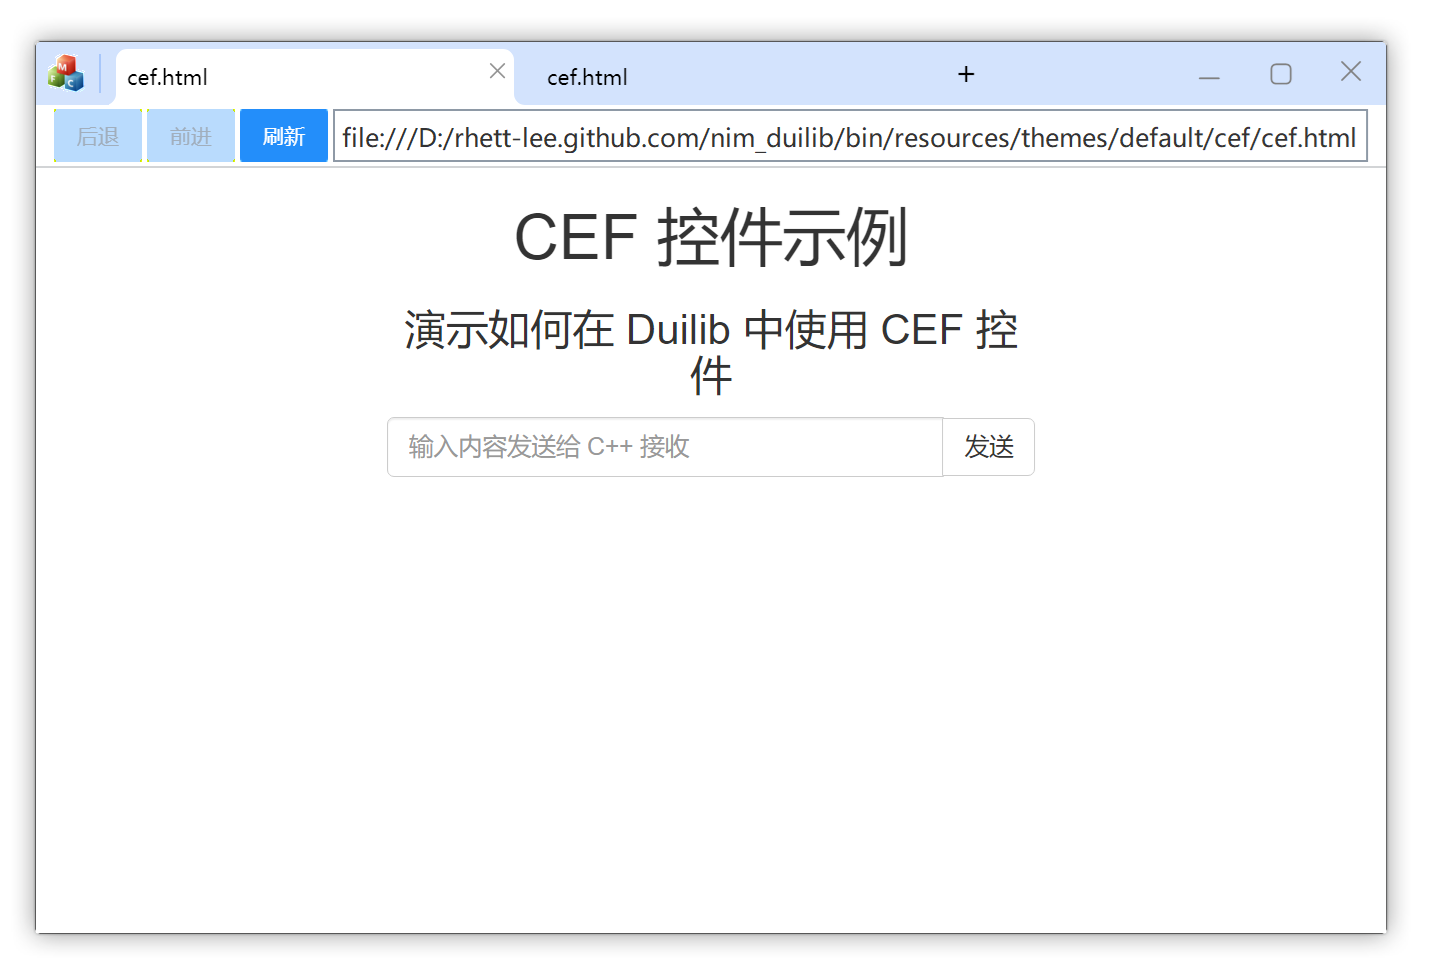
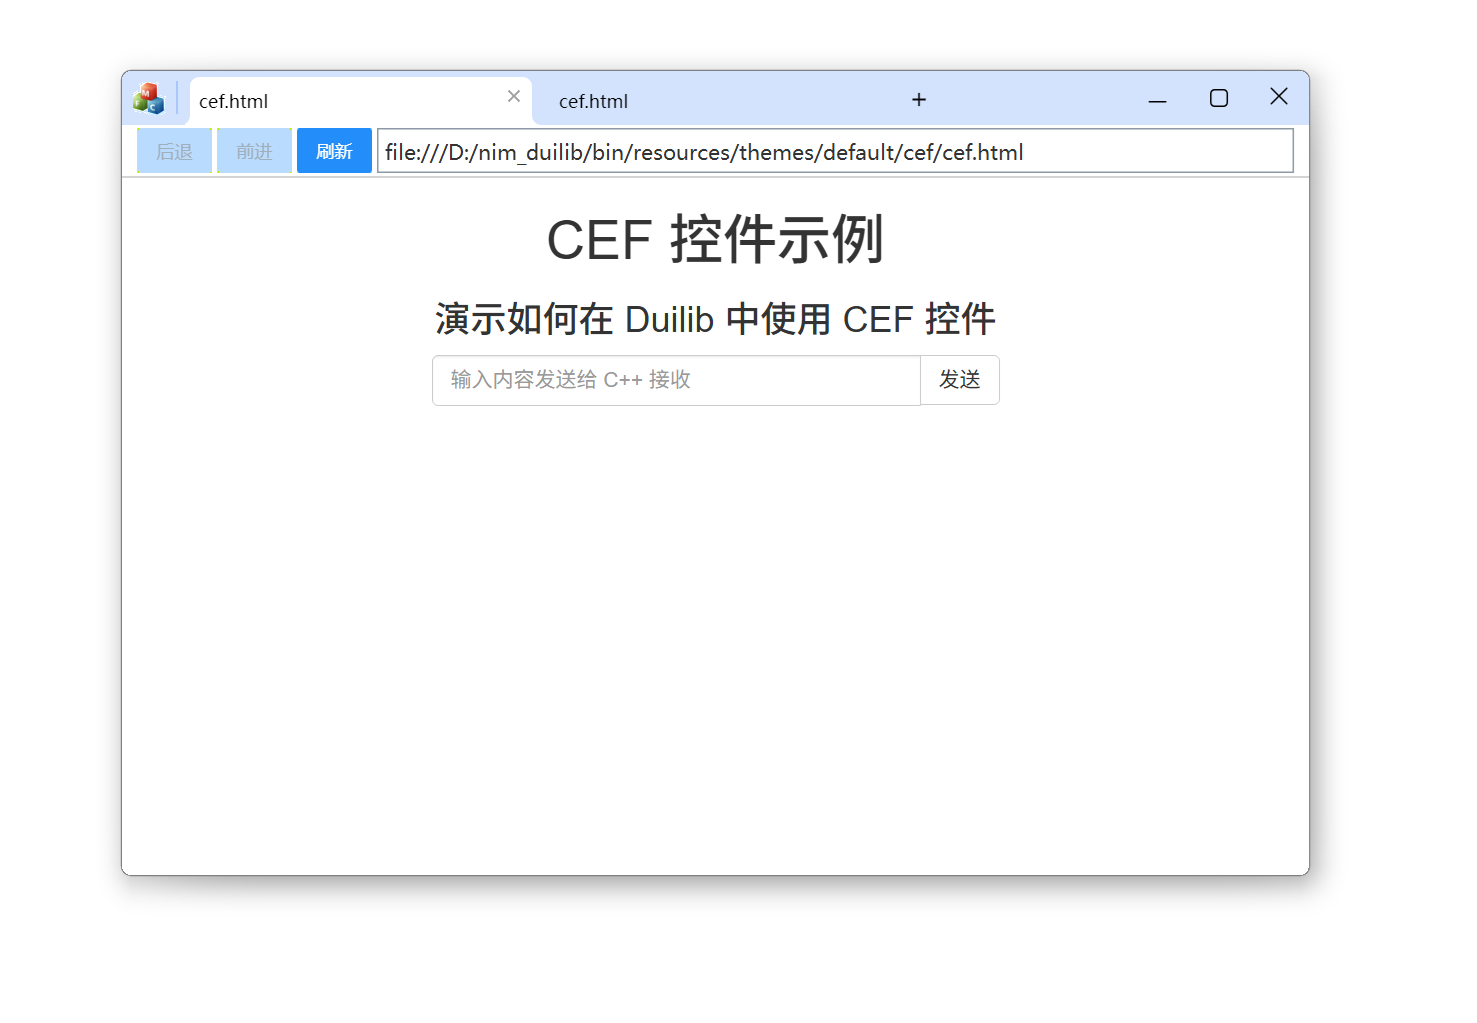
更新examples目录中各个程序的预览图，并完善部分文档。

Changed region(s): [[0.0, 0.0309, 0.9688, 0.9887], [0.2812, 0.4325, 0.4688, 0.4943], [0.6562, 0.4325, 0.7188, 0.4943]]

diff --git a/docs/Getting-Started.md b/docs/Getting-Started.md
@@ -1,6 +1,6 @@
 # 快速上手（Windows系统，VS 2022）
 
-此示例将引导你快速部署一个基于 nim_duilib 的基本应用，此示例与 `samples` 中的 `MyDuilibApp` 项目一致，如果你更喜欢查看代码可以参考示例代码而无需多花费时间。
+此示例将引导你快速部署一个基于 nim_duilib 的基本应用，此示例与 `examples` 中的 `MyDuilibApp` 项目一致，如果你更喜欢查看代码，可以打开`examples.sln`工程，参考示例代码而无需多花费时间。
 
 ## 获取项目代码并编译
 
@@ -10,7 +10,7 @@
 git clone https://github.com/rhett-lee/nim_duilib
 ```
 
-2. 获取skia代码的编译方法和修改的代码（nim_duilib默认使用skia作为绘制引擎，所以先要编译skia）
+2. 获取skia代码的编译方法和修改的代码（nim_duilib使用skia作为绘制引擎，所以先要编译skia）
 
 ```bash
 git clone https://github.com/rhett-lee/skia_compile
@@ -18,17 +18,24 @@ git clone https://github.com/rhett-lee/skia_compile
 
 3. 编译skia源码：按照skia_compile目录中的[Windows下编译skia.md文档](../../skia_compile/Windows下编译skia.md)中的方法，编译出skia相关的lib文件    
    注意事项：skia源码应该与nim_duilib源码位于相同的目录下。    
-   注意事项：skia源码编译的时候，应使用LLVM编译，程序运行比较流畅；如果使用VS编译，运行速度很满，界面比较卡。    
-   检查方法：编译成功以后，在skia/out的子目录下，有生成skia.lib等lib文件
+   注意事项：skia源码编译的时候，应使用LLVM编译，程序运行比较流畅；如果使用VS编译，运行速度很慢，界面比较卡。    
+   检查方法：编译成功以后，在skia/out的子目录下，有生成skia.lib等lib文件。
+4. 在工作目录内，几个项目的源码目录的基本结构如下    
 
-4. 编译nim_duilib：进入 `nim_duilib/examples` 目录，使用 Visual Studio 2022版本的 IDE 打开 `examples.sln`，选择编译选项为Debug|x64或者Release|x64，按下 F7 即可编译所有示例程序（编译完成的示例程序位于bin目录中）。
+<img src="./Images/vs00.png"/>
+
+5. 编译nim_duilib：进入 `nim_duilib` 目录，使用 Visual Studio 2022版本的 IDE 打开 `examples.sln`，选择编译选项为Debug|x64或者Release|x64，按下 F7 即可编译所有示例程序（编译完成的示例程序位于bin目录中）。
 
 ## 创建基础工程
 
-使用 Visual Studio 打开项目目录中 `samples\\samples.sln` 解决方案，
+使用 Visual Studio 打开项目目录中 `duilib.sln` 解决方案，
 解决方案中包含了一些简单示例作为参考，你可以参考示例或新建一个 Windows 桌面应用，来一步一步完成第一个 duilib 窗口。
 
-1. 在`samples\\samples.sln` 解决方案中新建一个 Windows 桌面程序（VS2022，程序类型为：Windows Desktop Application），假定程序名为：MyDuilibApp
+1. 在`duilib.sln` 解决方案中新建一个 Windows 桌面程序（VS2022，程序类型为：Windows Desktop Application）。
+假定程序名为：`MyDuilibApp`，源码放在`examples2`子目录中。    
+
+<img src="./Images/vs01.png"/>
+
 2. 将生成的代码清理一下，只保留关键的 wWinMain 函数：
 ```cpp
 #include "MainThread.h"
@@ -48,50 +55,24 @@ int APIENTRY wWinMain(_In_ HINSTANCE hInstance,
 ```
 
 ## 配置项目属性
-
-- 项目属性->常规，修改输出目录为克隆后项目的 bin 目录下
-1. `Output Directory` 改为：`..\..\bin\`
-2. `Intermediate Directory` 改为：`$(ProjectDir)..\..\tmp\$(PlatformName)\$(ProjectName)\$(Configuration)\`
-
-- 项目属性->常规，修改平台工具集和C++/C语言选项与你编译的 duilib 保持一致
-1. `Platform Toolset` 改为：`Visual Studio 2022 (v143)`
-2. `C++ Language Standard` 改为：`ISO C++20 Standard (/std:c++20)`
-3. `C Language Standard` 改为：`ISO C17 (2018) Standard (/std:c17)`
-
-- 项目属性->常规，修改目标名称（最终的exe名称）
-1. Target Name: Debug|x64的改为$(ProjectName)64_d，Release|x64的改为$(ProjectName)64
-2. Target Name: Debug|Win32的改为$(ProjectName)_d，Release|x32的改为$(ProjectName)（可选，如果不编译32位程序，可以不设置）
-
-<img src="./Images/vs01.png"/>
-
-- 项目属性->C/C++->常规->包含目录中，添加 `nim_duilib` 根目录到包含目录中：
-1. `Additional Include Directories` 改为：`../../`
-2. 如果需要使用 CEF 模块，`Additional Include Directories` 改为：`..\..\;..\..\duilib\third_party\libcef_win\`
+- 使用nim_duilib提供的通用配置（`MSVC\PropertySheets\CommonSettings.props`）    
+（1）用文本编辑器打开刚刚创建的工程文件（`examples2\MyDuilibApp\MyDuilibApp.vcxproj`）    
+（2）找到`<Import Project="$(VCTargetsPath)\Microsoft.Cpp.Default.props" />`这一行的位置，在这行的后面插入一行，添加一下内容：    
+         `<Import Project="$(SolutionDir)\MSVC\PropertySheets\CommonSettings.props" />`    
+（3）保存该工程文件的修改，如果已经在VS中打开，需要重新加载。    
 
 <img src="./Images/vs02.png"/>
 
-- 项目属性->C/C++->代码生成，将 Debug 模式的运行库修改为 `/MTd`，将 Release 模式的运行库修改为 `/MT`
+- 项目右键->添加->引用，将 duilib、cximage、libpng、libwebp、zlib 作为引用项目，这样就不需要手动引入静态库文件了。
 
 <img src="./Images/vs03.png"/>
 
-- 项目右键->添加->引用，将 base、duilib、cximage、libpng、libwebp、zlib 作为引用项目（如果使用CEF，需要添加ui_components作为引用项目），这样就不需要手动引入静态库文件了。
-
-<img src="./Images/vs04.png"/>
-
 添加成功后，可以看到引用成功的项目：    
-<img src="./Images/vs05.png"/>  
-
-设置应用程序清单，以使代码兼容Win7/8/10/11等（Win32和x64需要分开设置）：    
-x64设置内容：`../../manifest/duilib.x64.manifest`
-<img src="./Images/vs06.png"/>
-Win32设置内容：`../../manifest/duilib.x86.manifest`
-<img src="./Images/vs07.png"/>
-源文件的编码格式，设置为UTF-8格式：
-<img src="./Images/vs08.png"/>
+<img src="./Images/vs04.png"/>  
 
 ## 引入线程库
 
-在创建的项目中增加自定义的线程类（主线程和一个工作线程）    
+在创建的项目中增加自定义的线程类MainThread（主线程和一个工作线程）    
 创建两个文件（`MainThread.h` 和 `MainThread.cpp`），并添加到VS工程中，两个文件的内容分别如下：
 
 ```cpp
@@ -207,11 +188,11 @@ void MainThread::OnInit()
 
 void MainThread::OnCleanup()
 {
-    ui::GlobalManager::Instance().Shutdown();
     if (m_workerThread != nullptr) {
         m_workerThread->Stop();
         m_workerThread.reset(nullptr);
     }
+    ui::GlobalManager::Instance().Shutdown();
 #if defined (DUILIB_BUILD_FOR_WIN) && !defined (DUILIB_BUILD_FOR_SDL)
     ::OleUninitialize();
 #endif
@@ -247,7 +228,7 @@ int APIENTRY wWinMain(_In_ HINSTANCE hInstance,
 
 ## 创建一个简单窗口
 
-创建一个窗口类，继承 `ui::WindowImplBase` 类，并覆写 `GetSkinFolder` `GetSkinFile` `GetWindowClassName` 三个方法。
+创建一个窗口类MainForm，继承 `ui::WindowImplBase` 类，并覆写 `GetSkinFolder` `GetSkinFile` 等方法。
 
 ```cpp
 //MainForm.h
@@ -319,11 +300,14 @@ void MainForm::OnInitWindow()
 ## 创建窗口描述 XML 文件
 
 在我们创建的窗口类中，指定了窗口描述文件目录是 `my_duilib_app`，指定窗口的描述文件为 `MyDuilibForm.xml`。
-接下来在 `resources\\themes\\default` 目录下创建 `my_duilib_app` 文件夹并新建一个 `MyDuilibForm.xml` 文件，写下如下内容。    
+接下来在 `bin\resources\themes\default` 目录下创建 `my_duilib_app` 文件夹并新建一个 `MyDuilibForm.xml` 文件，写下如下内容。    
 注意事项：XML文件的编码格式是UTF-8。  
 ```xml
 <?xml version="1.0" encoding="UTF-8"?>
-<Window size="60%,80%" mininfo="80,50" use_system_caption="false" snap_layout_menu="true" sys_menu="true" sys_menu_rect="0,0,36,36" caption="0,0,0,36" shadow_attached="true" layered_window="true" sizebox="4,4,4,4">
+<Window size="800,600" mininfo="80,60" 
+        caption="0,0,0,36" use_system_caption="false" snap_layout_menu="true" sys_menu="true" sys_menu_rect="0,0,36,36" 
+        shadow_type="default" shadow_attached="true" layered_window="true" 
+        alpha="255" sizebox="4,4,4,4" icon="../public/caption/logo.ico">
     <VBox bkcolor="bk_wnd_darkcolor" visible="true">    
         <!-- 标题栏区域 -->
         <HBox name="window_caption_bar" width="stretch" height="36" bkcolor="bk_wnd_lightcolor">
